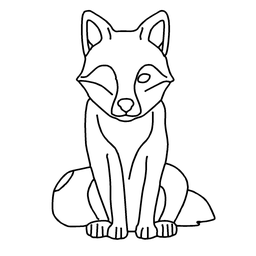
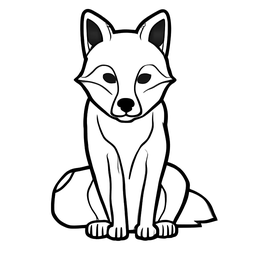
Show the cleaned AI drawing as the target instead of a re-trace
The target was re-drawn from the traced strokes with thin uniform lines,
which lost the drawing's line weight, eyes, fills and textures and looked
worse than the AI draft. target.png and thumb.png are now the chosen
drawing itself, cleaned (uneven gray page to white, ink to black). The
guides and measurements still use the strokes traced from that image.
scripts/retarget.py re-rendered the shipped packs without the GPU.

Claude-Session: https://claude.ai/code/session_011xZ9a98AHQiqUP3hzwaW4w

diff --git a/server/build_pack.py b/server/build_pack.py
@@ -11,7 +11,7 @@ What it does:
    with a clear message.
 3. Finds the parts (OWLv2) and builds the lesson plan (tiers, order, steps).
 4. Checks the whole pack against pipeline/schema.py (a mirror of types.ts) BEFORE writing anything.
-5. Writes web/public/subjects/<subject>-<difficulty>/: target.png (768, clean black lines on white),
+5. Writes web/public/subjects/<subject>-<difficulty>/: target.png (768, the chosen drawing cleaned to black on white),
    thumb.png (256), pack.json, and pipeline/ images for the "How this lesson was made" panel
    (candidate-0..3, skeleton, parts, plus source for photo packs; webp, 300 KB or less each).
 6. Adds the pack to web/public/subjects/index.json, keeping every other subject as it was.
@@ -140,6 +140,24 @@ def render_target(strokes: list) -> Image.Image:
                 r = 2.5 * scale
                 draw.ellipse((x - r, y - r, x + r, y + r), fill=0)
     return canvas.resize((SIZE, SIZE), Image.LANCZOS)
+
+
+def clean_drawing(image: Image.Image) -> Image.Image:
+    """The drawing the user copies: the chosen AI drawing itself, cleaned up (gray or uneven page to white, ink to
+    crisp black, colour removed). It keeps the drawing's line weight and small details, which re-drawing it from
+    the traced strokes lost. The traced strokes come from this same image, so the lesson's guides and the
+    measurements still line up with it."""
+    import numpy as np
+    from scipy import ndimage
+
+    gray = np.asarray(image.convert("L"), dtype=np.float32)
+    # The page's brightness around each pixel: the lightest value nearby, smoothed (pages are often unevenly lit).
+    page = ndimage.uniform_filter(ndimage.maximum_filter(gray, size=31), size=31)
+    ratio = gray / np.maximum(page, 1.0)  # 1 = page, lower = ink
+    ink = float(np.percentile(ratio, 2))
+    white_from = 1.0 - 0.18 * (1.0 - ink)  # this close to the page counts as page
+    out = np.clip((ratio - ink) / max(white_from - ink, 1e-3), 0.0, 1.0) ** 1.6
+    return Image.fromarray((out * 255).astype(np.uint8), "L").resize((SIZE, SIZE), Image.LANCZOS)
 
 
 def skeleton_image(image: Image.Image) -> Image.Image:
@@ -291,7 +309,7 @@ def make_pack(
     plan = build_plan(best.strokes, parts, subject=subject)
     pack = assemble_pack(pack_id, subject, title, difficulty, source_kind, prompt, prompt_text, chosen,
                          len(best.strokes), parts, plan, n_candidates=len(candidates))
-    target = render_target(best.strokes)
+    target = clean_drawing(best.image)
     assets = {
         "target.png": png_bytes(target),
         "thumb.png": png_bytes(target.resize((256, 256), Image.LANCZOS)),

diff --git a/server/scripts/retarget.py b/server/scripts/retarget.py
@@ -1,0 +1,34 @@
+"""Rewrites target.png and thumb.png of the packs already built, from each pack's chosen AI drawing, cleaned up
+(build_pack.clean_drawing). Strokes, steps and parts don't change, so nothing else in the pack needs rebuilding.
+No GPU needed. Run from the repo root:  python server/scripts/retarget.py
+"""
+
+import json
+import sys
+from pathlib import Path
+
+from PIL import Image
+
+SERVER_DIR = Path(__file__).resolve().parents[1]
+sys.path.insert(0, str(SERVER_DIR))
+
+from build_pack import SUBJECTS_DIR, clean_drawing  # noqa: E402
+
+
+def main() -> int:
+    for pack_file in sorted(SUBJECTS_DIR.glob("*/pack.json")):
+        folder = pack_file.parent
+        pack = json.loads(pack_file.read_text(encoding="utf-8"))
+        chosen = next((s.get("image") for s in pack["pipeline"] if s["id"] == "chosen"), None)
+        if not chosen or not (folder / chosen).exists():
+            print(f"{folder.name}: no chosen image, skipped")
+            continue
+        target = clean_drawing(Image.open(folder / chosen).convert("RGB"))
+        target.save(folder / pack["target"], optimize=True)
+        target.resize((256, 256), Image.LANCZOS).save(folder / pack["thumb"], optimize=True)
+        print(f"{folder.name}: {(folder / pack['target']).stat().st_size // 1024} KB")
+    return 0
+
+
+if __name__ == "__main__":
+    sys.exit(main())

diff --git a/server/tests/test_build_pack.py b/server/tests/test_build_pack.py
@@ -210,3 +210,16 @@ def test_always_builds_a_pack_from_a_busy_drawing_and_runs_the_safety_check():
     schema.Pack.model_validate(pack)
     assert len([s for s in pack["strokes"] if s["tier"] != "construction"]) <= 60
     assert len(checked) == 1
+
+
+def test_clean_drawing_whitens_an_uneven_page_and_keeps_the_ink_black():
+    import numpy as np
+
+    from build_pack import clean_drawing
+
+    page = np.tile(np.linspace(170, 235, 768, dtype=np.float32), (768, 1))  # unevenly lit gray page
+    page[380:388, 100:700] = 30  # one ink line
+    out = np.asarray(clean_drawing(Image.fromarray(page.astype(np.uint8)).convert("RGB")))
+    assert out.shape == (768, 768)
+    assert out[100, 50] == 255 and out[100, 700] == 255  # the page is white on both the dark and the light side
+    assert out[384, 400] < 40  # the ink stays black
